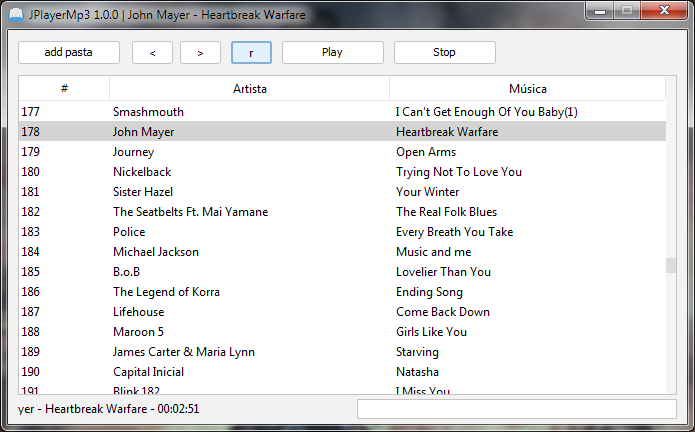
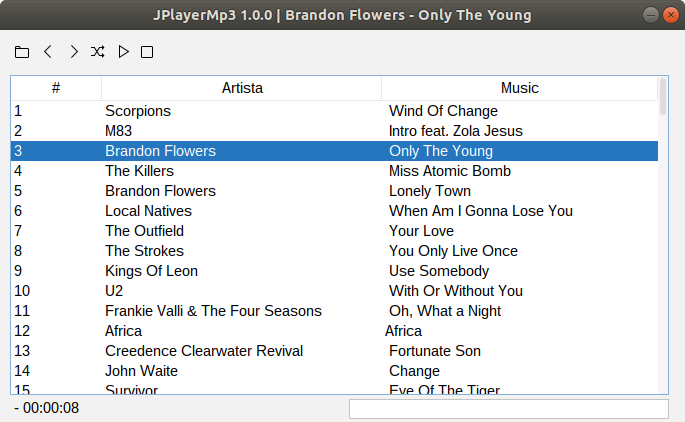
Ícones aplicados, melhorias no código, validações, imagem player atualizada

diff --git a/PlayMp3A/src/br/main/player/visual/JPlayerMp3.java b/PlayMp3A/src/br/main/player/visual/JPlayerMp3.java
@@ -116,13 +116,20 @@ public class JPlayerMp3 extends JFrame {
 		});
 		this.contentPane.add(btnAddPasta);
 
-		JButton btnPlay = new JButton("Play");
+		ImageIcon imgPlay = new ImageIcon(JPlayerMp3.class.getResource("/icones/player/icons8-reproduzir-16.png"));
+		ImageIcon imgPause = new ImageIcon(JPlayerMp3.class.getResource("/icones/player/icons8-pausa-16.png"));
+		JButton btnPlay = new JButton("");
+		btnPlay.setIcon(imgPlay);
+		btnPlay.setBounds(112, 11, 25, 23);
 		btnPlay.addActionListener(new ActionListener() {
 			@Override
 			public void actionPerformed(ActionEvent e) {
-				boolean playEstado = btnPlay.getText().equals("Play");
-				btnPlay.setText(playEstado ? "Pause" : "Play");
-
+				if (!existemMusicas()) {
+					btnPlay.setIcon(imgPlay);
+					return;
+				}
+				boolean playEstado = btnPlay.getIcon().toString() == imgPlay.toString();
+				btnPlay.setIcon(playEstado ? imgPause : imgPlay);
 				//if (playEstado) {
 					if (JPlayerMp3.this.playMp3==null) {
 						JPlayerMp3.this.playMusica(JPlayerMp3.this.getMusicaToPlay(), true, false);
@@ -133,46 +140,71 @@ public class JPlayerMp3 extends JFrame {
 			}
 		});
 		btnPlay.setFont(new Font("Tahoma", Font.PLAIN, 11));
-		btnPlay.setBounds(274, 11, 102, 23);
+		btnPlay.setBackground(Color.WHITE);
+		btnPlay.setBorder(BorderFactory.createEmptyBorder());
+		btnPlay.setContentAreaFilled(false);
+		btnPlay.setFocusPainted(false);
 		this.contentPane.add(btnPlay);
 
-		JButton btnAnterior = new JButton("<");
+		JButton btnAnterior = new JButton("");
+		btnAnterior.setBounds(37, 11, 25, 23);
+		btnAnterior.setIcon(new ImageIcon(JPlayerMp3.class.getResource("/icones/player/icons8-voltar-16.png")));
 		btnAnterior.addActionListener(new ActionListener() {
 			@Override
 			public void actionPerformed(ActionEvent arg0) {
-				btnPlay.setText("Play");
+				btnPlay.setIcon(imgPlay);
+				if (!existemMusicas()) {return;}
 				JPlayerMp3.this.playMusica(JPlayerMp3.this.getPreviousMusic(), true, false);
 			}
 		});
 		btnAnterior.setFont(new Font("Tahoma", Font.PLAIN, 10));
-		btnAnterior.setBounds(124, 11, 41, 23);
+		btnAnterior.setBackground(Color.WHITE);
+		btnAnterior.setBorder(BorderFactory.createEmptyBorder());
+		btnAnterior.setContentAreaFilled(false);
+		btnAnterior.setFocusPainted(false);
 		this.contentPane.add(btnAnterior);
 
-		JButton btnProxima = new JButton(">");
+		JButton btnProxima = new JButton("");
+		btnProxima.setBounds(61, 11, 25, 23);
+		btnProxima.setIcon(new ImageIcon(JPlayerMp3.class.getResource("/icones/player/icons8-avançar-16.png")));
 		btnProxima.addActionListener(new ActionListener() {
 			@Override
 			public void actionPerformed(ActionEvent e) {
-				btnPlay.setText("Play");
+				btnPlay.setIcon(imgPlay);
+				if (!existemMusicas()) {return;}
 				JPlayerMp3.this.playMusica(JPlayerMp3.this.getNextMusic(), true, false);
 			}
 		});
 		btnProxima.setFont(new Font("Tahoma", Font.PLAIN, 10));
-		btnProxima.setBounds(172, 11, 41, 23);
+		btnProxima.setBackground(Color.WHITE);
+		btnProxima.setBorder(BorderFactory.createEmptyBorder());
+		btnProxima.setContentAreaFilled(false);
+		btnProxima.setFocusPainted(false);
 		this.contentPane.add(btnProxima);
 
-		JButton btnRandozimarListaMusicas = new JButton("r");
+		JButton btnRandozimarListaMusicas = new JButton("");
+		btnRandozimarListaMusicas.setBounds(86, 11, 25, 23);
+		btnRandozimarListaMusicas.setIcon(new ImageIcon(JPlayerMp3.class.getResource("/icones/player/icons8-embaralhar-16.png")));
 		btnRandozimarListaMusicas.setToolTipText("Randomizar Lista de M\u00FAsicas");
 		btnRandozimarListaMusicas.addActionListener(new ActionListener() {
 			@Override
 			public void actionPerformed(ActionEvent e) {
-				btnPlay.setText("Play");
-				JPlayerMp3.this.playMusica(JPlayerMp3.this.getMusicAleatoria(), true, true);
+				if (!existemMusicas()) { return; }
+				IndexFile indice = JPlayerMp3.this.getMusicAleatoria();
+				if (indice==null) {return;}
+				btnPlay.setIcon(imgPlay);
+				JPlayerMp3.this.playMusica(indice, true, true);
 			}
 		});
-		btnRandozimarListaMusicas.setBounds(223, 11, 41, 23);
+		btnRandozimarListaMusicas.setBackground(Color.WHITE);
+		btnRandozimarListaMusicas.setBorder(BorderFactory.createEmptyBorder());
+		btnRandozimarListaMusicas.setContentAreaFilled(false);
+		btnRandozimarListaMusicas.setFocusPainted(false);
 		this.contentPane.add(btnRandozimarListaMusicas);
 
-		JButton btnStop = new JButton("Stop");
+		JButton btnStop = new JButton("");
+		btnStop.setBounds(135, 11, 25, 23);
+		btnStop.setIcon(new ImageIcon(JPlayerMp3.class.getResource("/icones/player/icons8-parar-16.png")));
 		btnStop.addActionListener(new ActionListener() {
 			@Override
 			public void actionPerformed(ActionEvent e) {
@@ -185,7 +217,10 @@ public class JPlayerMp3 extends JFrame {
 			}
 		});
 		btnStop.setFont(new Font("Tahoma", Font.PLAIN, 11));
-		btnStop.setBounds(386, 11, 102, 23);
+		btnStop.setBackground(Color.WHITE);
+		btnStop.setBorder(BorderFactory.createEmptyBorder());
+		btnStop.setContentAreaFilled(false);
+		btnStop.setFocusPainted(false);
 		this.contentPane.add(btnStop);
 
 		this.lblStatus = new JLabel("");
@@ -247,6 +282,7 @@ public class JPlayerMp3 extends JFrame {
 		this.playMp3 = new PlayMp3(musicaToPlay.getFile().getAbsolutePath(), new IHandlerMusicStopped() {
 			@Override
 			public void executarHandler() {
+				if (!existemMusicas()) { return; }
 				JPlayerMp3.this.setTitle(JPlayerMp3.this.appname);
 				//System.out.println("Música has ended");
 				if (!playNext) { return; }
@@ -349,12 +385,15 @@ public class JPlayerMp3 extends JFrame {
 	}
 
 	private IndexFile getMusicAleatoria() {
+		if (!existemMusicas()) { return null; }
 		int rowAleatorio = 0;
 
 		final int rowAtualSelecionado = this.getRowSelecionado();
-		do {
-			rowAleatorio = RandomNumber.getRandomNumber(0, JPlayerMp3.this.table.getRowCount() - 1);
-		} while(rowAleatorio==rowAtualSelecionado);
+		if (JPlayerMp3.this.table.getRowCount() >= 2) {
+			do {
+				rowAleatorio = RandomNumber.getRandomNumber(0, JPlayerMp3.this.table.getRowCount() - 1);
+			} while(rowAleatorio==rowAtualSelecionado);
+		}
 
 		Integer indice = JPlayerMp3.this.getIndiceMusica(rowAleatorio);
 		if (indice == null) { return null; }
@@ -397,6 +436,10 @@ public class JPlayerMp3 extends JFrame {
 		JPlayerMp3.this.preencherTabelaMusicas(listatemporaria);
 	}
 
+	private boolean existemMusicas() {
+		return JPlayerMp3.this.table != null && JPlayerMp3.this.table.getRowCount() > 0;
+	}
+	
 }
 
 /*
